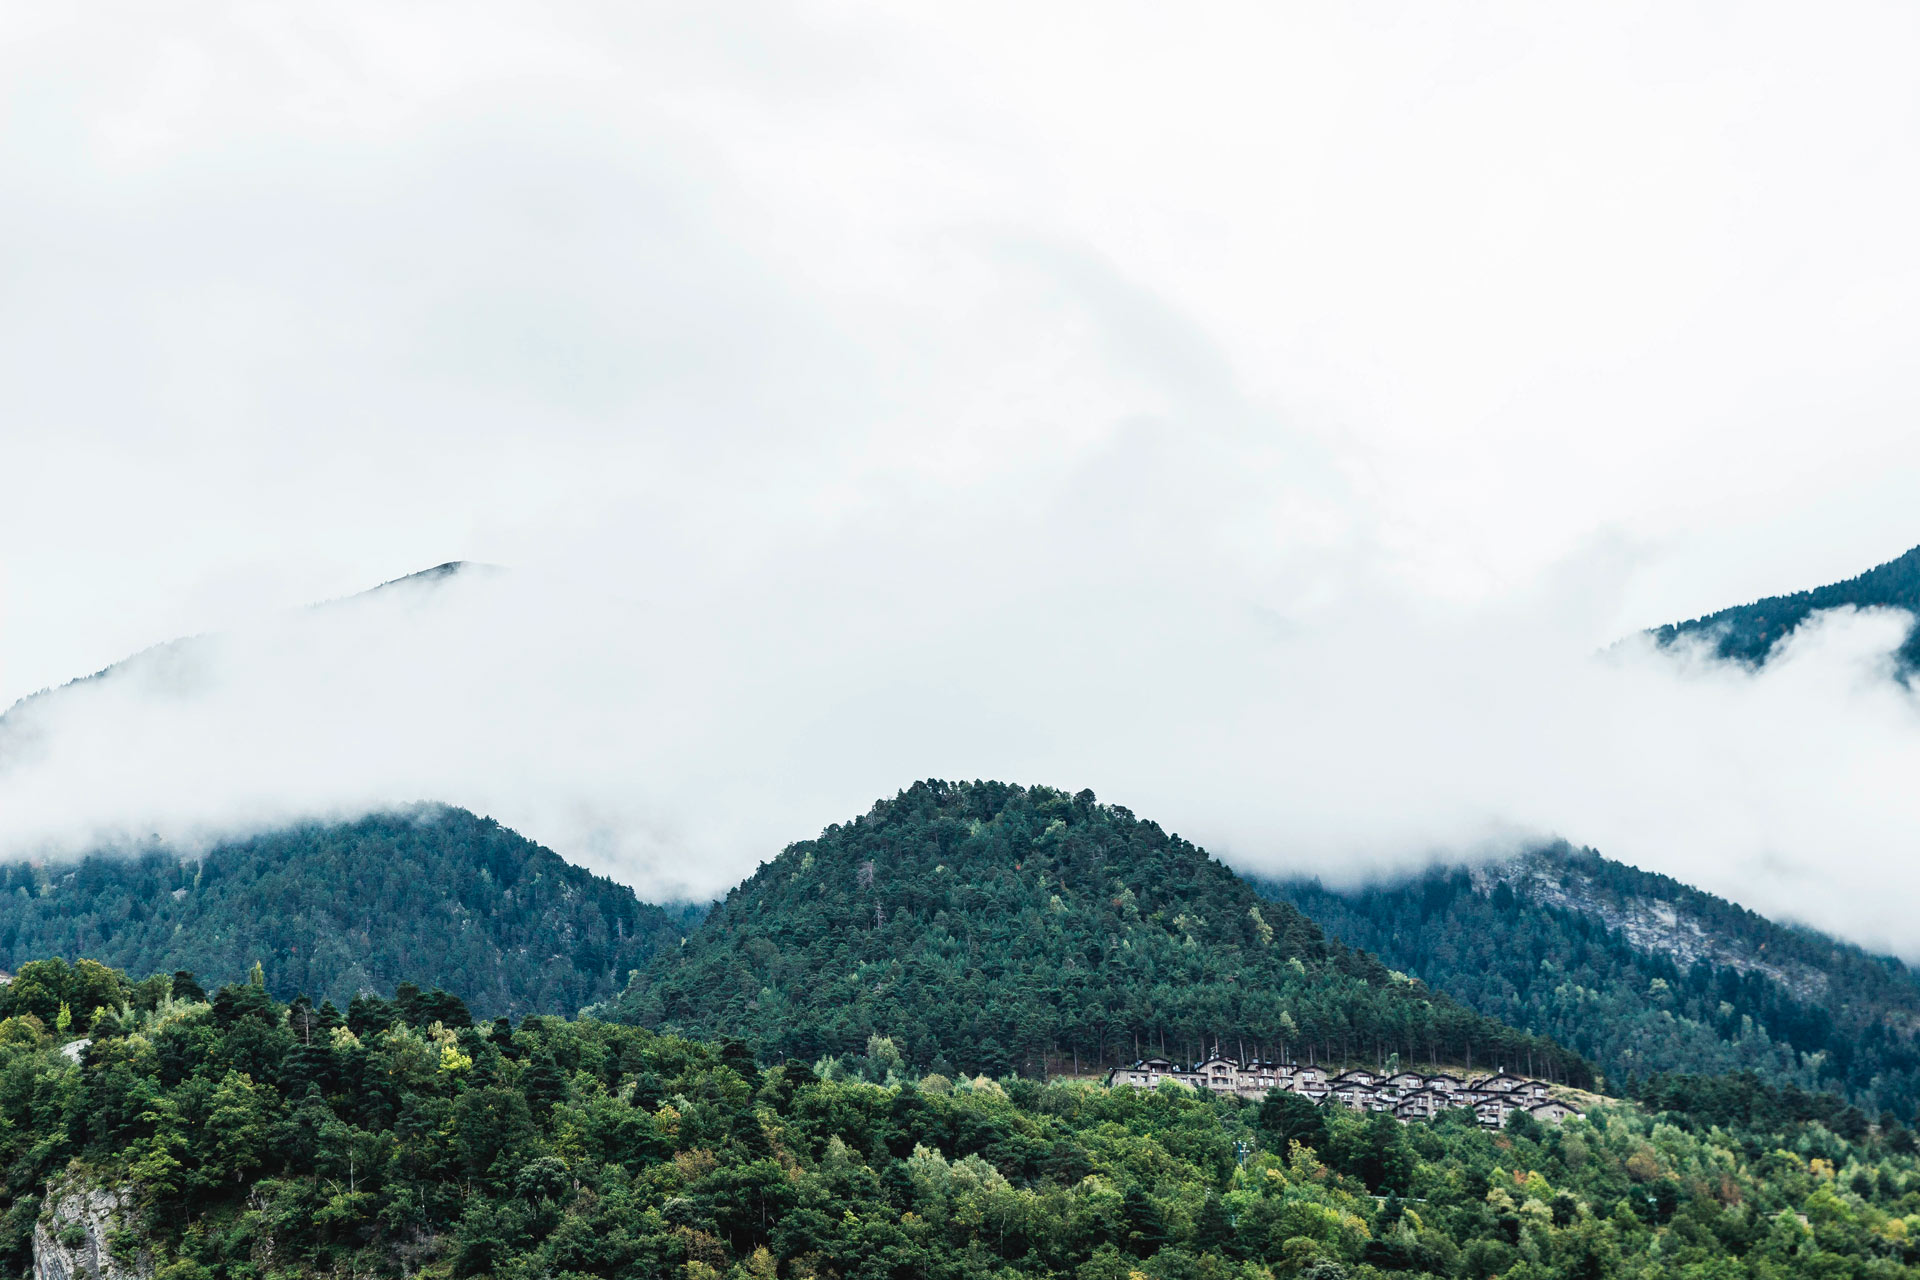
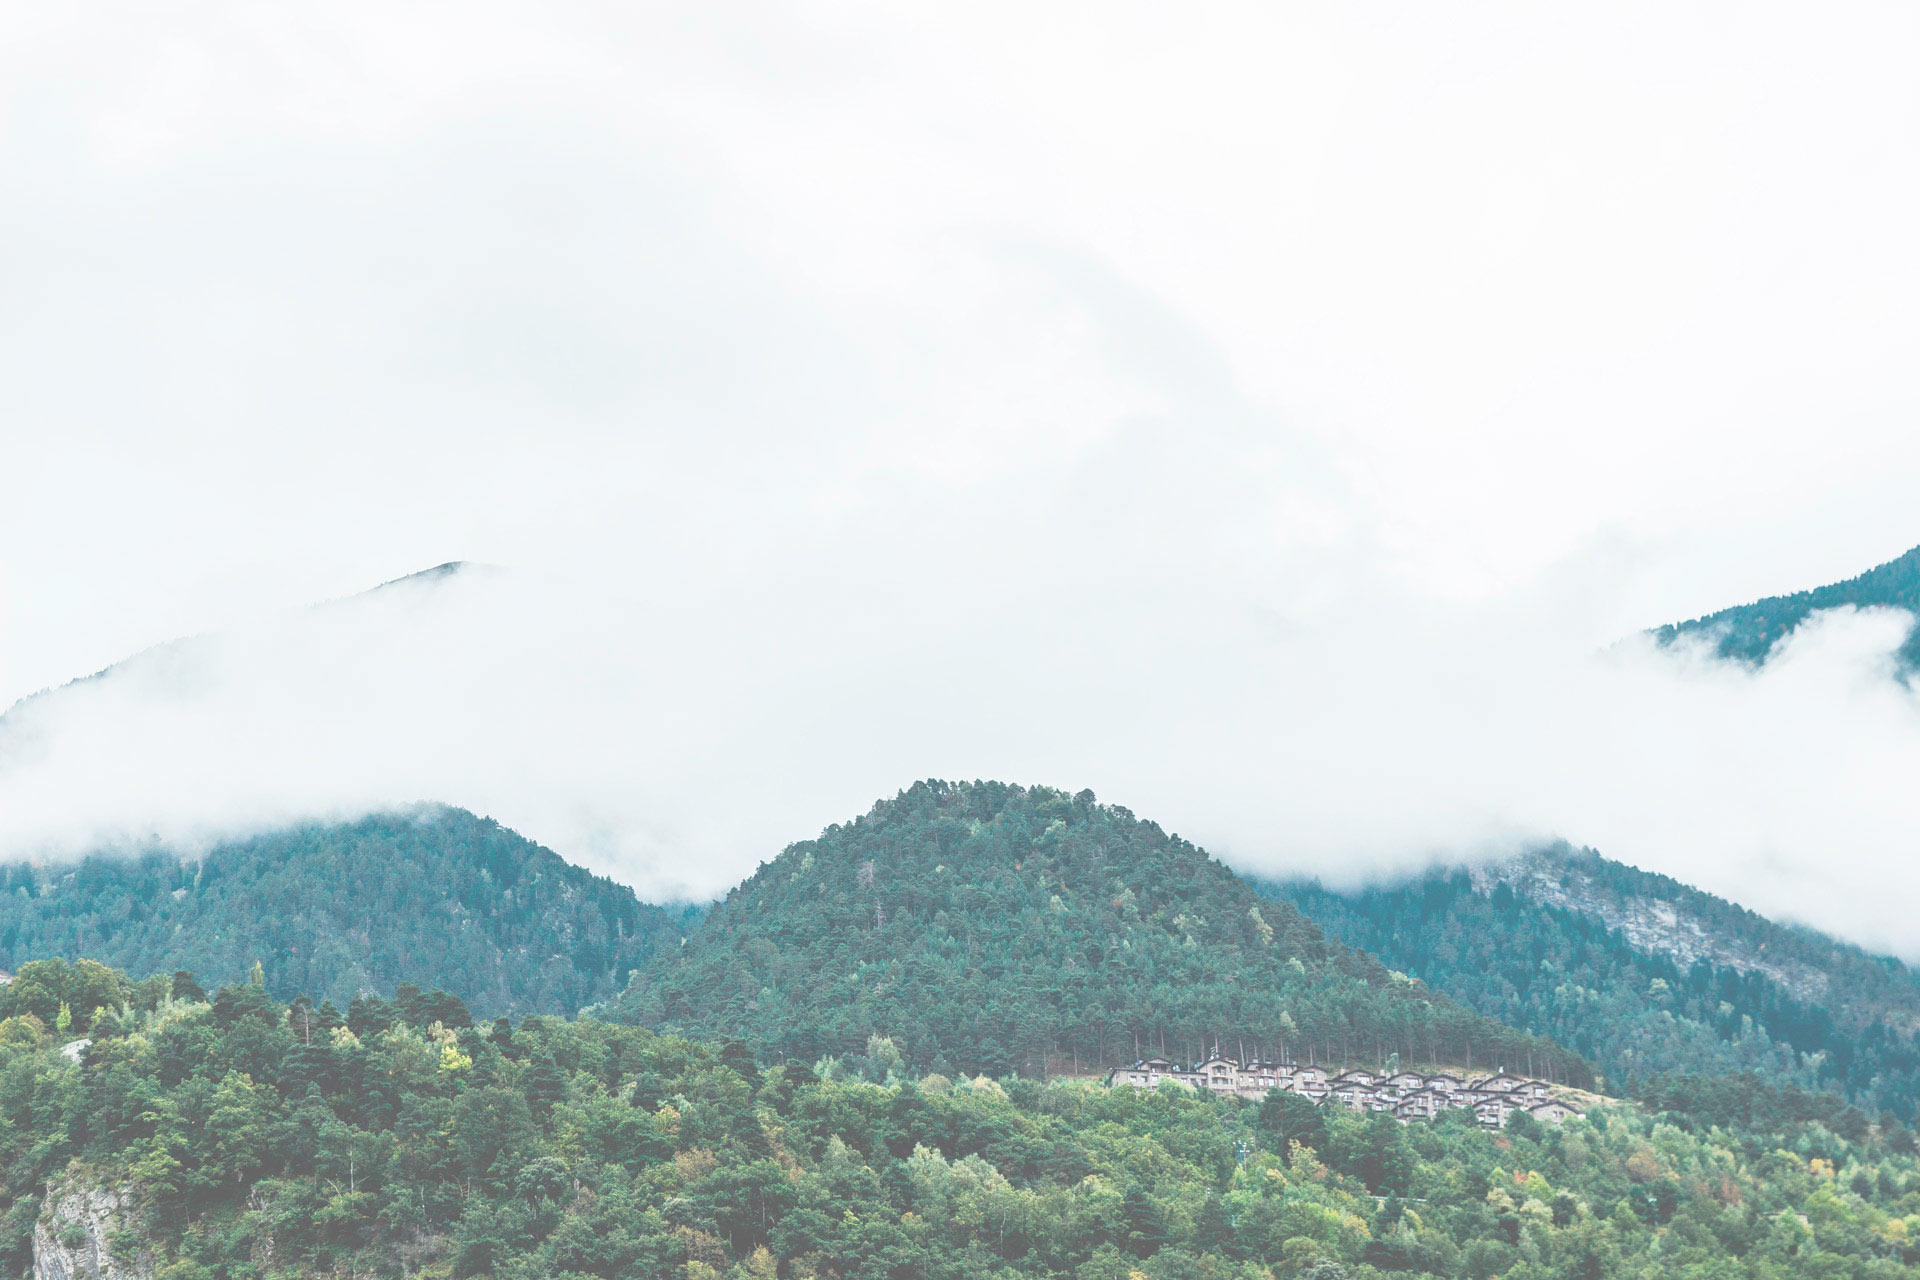
remove some bug and change header background image

diff --git a/css/style.css b/css/style.css
@@ -137,6 +137,7 @@ header .nav-container .head-menu .menu-item a {
   text-transform: capitalize;
   -webkit-transition: 0.4s;
   transition: 0.4s;
+  color: #8c8f94;
 }
 
 header .nav-container .head-menu .menu-item a:hover {

diff --git a/css/style.scss b/css/style.scss
@@ -75,6 +75,7 @@ header {
           @include main-text(16, 20);
           text-transform: capitalize;
           transition: 0.4s;
+          color: $gray;
           &:hover {
             color: $blue;
           }
